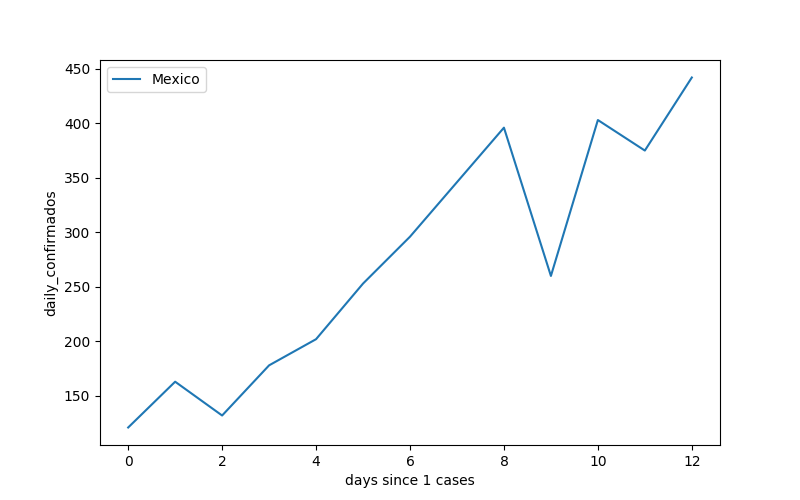
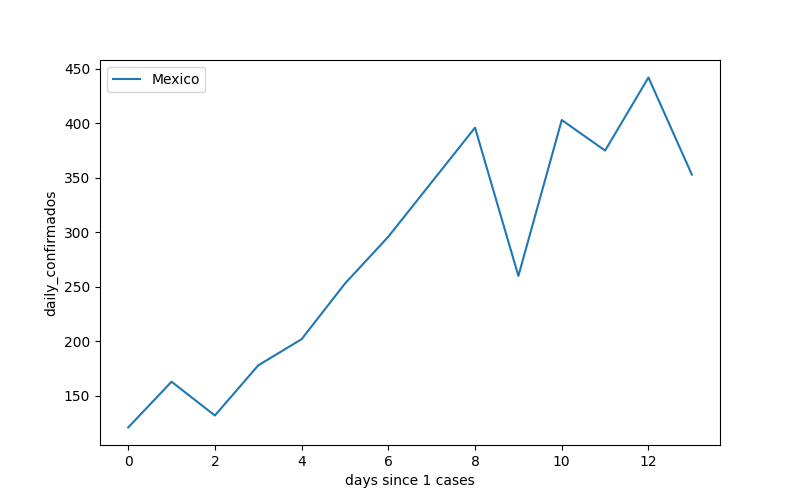
Auto generate graphs at 2020-04-13_18:07:59

diff --git a/summary.md b/summary.md
@@ -1,0 +1,142 @@
+# Datos sobre COVID-19 en México al 13-04-2020
+
+## Resumen de Resultados al 13-04-2020
+
+- **Casos confirmados:** 5014, 353 más que el día anterior
+- **Fallecimientos:** 332, 36 más que el día anterior
+
+## Nacional
+
+### Confirmados
+
+#### Acumulados:
+
+| Date                |   Mexico |
+|:--------------------|---------:|
+| 2020-03-31 00:00:00 |     1215 |
+| 2020-04-01 00:00:00 |     1378 |
+| 2020-04-02 00:00:00 |     1510 |
+| 2020-04-03 00:00:00 |     1688 |
+| 2020-04-04 00:00:00 |     1890 |
+| 2020-04-05 00:00:00 |     2143 |
+| 2020-04-06 00:00:00 |     2439 |
+| 2020-04-07 00:00:00 |     2785 |
+| 2020-04-08 00:00:00 |     3181 |
+| 2020-04-09 00:00:00 |     3441 |
+| 2020-04-10 00:00:00 |     3844 |
+| 2020-04-11 00:00:00 |     4219 |
+| 2020-04-12 00:00:00 |     4661 |
+| 2020-04-13 00:00:00 |     5014 |
+
+![img](img/mex_confirmados_ac.png)
+
+#### Diarios:
+
+| Date                |   Mexico |
+|:--------------------|---------:|
+| 2020-03-31 00:00:00 |      121 |
+| 2020-04-01 00:00:00 |      163 |
+| 2020-04-02 00:00:00 |      132 |
+| 2020-04-03 00:00:00 |      178 |
+| 2020-04-04 00:00:00 |      202 |
+| 2020-04-05 00:00:00 |      253 |
+| 2020-04-06 00:00:00 |      296 |
+| 2020-04-07 00:00:00 |      346 |
+| 2020-04-08 00:00:00 |      396 |
+| 2020-04-09 00:00:00 |      260 |
+| 2020-04-10 00:00:00 |      403 |
+| 2020-04-11 00:00:00 |      375 |
+| 2020-04-12 00:00:00 |      442 |
+| 2020-04-13 00:00:00 |      353 |
+
+![img](img/mex_confirmados_dia.png)
+
+### Fallecimientos
+
+#### Acumulados:
+
+| Date                |   Mexico |
+|:--------------------|---------:|
+| 2020-03-31 00:00:00 |       29 |
+| 2020-04-01 00:00:00 |       37 |
+| 2020-04-02 00:00:00 |       50 |
+| 2020-04-03 00:00:00 |       60 |
+| 2020-04-04 00:00:00 |       79 |
+| 2020-04-05 00:00:00 |       94 |
+| 2020-04-06 00:00:00 |      125 |
+| 2020-04-07 00:00:00 |      141 |
+| 2020-04-08 00:00:00 |      174 |
+| 2020-04-09 00:00:00 |      194 |
+| 2020-04-10 00:00:00 |      233 |
+| 2020-04-11 00:00:00 |      273 |
+| 2020-04-12 00:00:00 |      296 |
+| 2020-04-13 00:00:00 |      332 |
+
+![img](img/mex_muertos_ac.png)
+
+#### Diarios:
+
+| Date                |   Mexico |
+|:--------------------|---------:|
+| 2020-03-31 00:00:00 |        1 |
+| 2020-04-01 00:00:00 |        8 |
+| 2020-04-02 00:00:00 |       13 |
+| 2020-04-03 00:00:00 |       10 |
+| 2020-04-04 00:00:00 |       19 |
+| 2020-04-05 00:00:00 |       15 |
+| 2020-04-06 00:00:00 |       31 |
+| 2020-04-07 00:00:00 |       16 |
+| 2020-04-08 00:00:00 |       33 |
+| 2020-04-09 00:00:00 |       20 |
+| 2020-04-10 00:00:00 |       39 |
+| 2020-04-11 00:00:00 |       40 |
+| 2020-04-12 00:00:00 |       23 |
+| 2020-04-13 00:00:00 |       36 |
+
+![img](img/mex_muertos_dia.png)
+
+### Pruebas realizadas
+
+#### Acumuladas:
+
+| Date                |   Mexico |
+|:--------------------|---------:|
+| 2020-03-31 00:00:00 |    11008 |
+| 2020-04-01 00:00:00 |    12278 |
+| 2020-04-02 00:00:00 |    13985 |
+| 2020-04-03 00:00:00 |    15686 |
+| 2020-04-04 00:00:00 |    17184 |
+| 2020-04-05 00:00:00 |    18034 |
+| 2020-04-06 00:00:00 |    20475 |
+| 2020-04-07 00:00:00 |    25410 |
+| 2020-04-08 00:00:00 |    29578 |
+| 2020-04-09 00:00:00 |    31496 |
+| 2020-04-10 00:00:00 |    33893 |
+| 2020-04-11 00:00:00 |    35479 |
+| 2020-04-12 00:00:00 |    35301 |
+| 2020-04-13 00:00:00 |    37395 |
+
+![img](img/mex_pruebas_ac.png)
+
+#### Diarios:
+
+| Date                |   Mexico |
+|:--------------------|---------:|
+| 2020-03-31 00:00:00 |     1527 |
+| 2020-04-01 00:00:00 |     1270 |
+| 2020-04-02 00:00:00 |     1707 |
+| 2020-04-03 00:00:00 |     1701 |
+| 2020-04-04 00:00:00 |     1498 |
+| 2020-04-05 00:00:00 |      850 |
+| 2020-04-06 00:00:00 |     2441 |
+| 2020-04-07 00:00:00 |     4935 |
+| 2020-04-08 00:00:00 |     4168 |
+| 2020-04-09 00:00:00 |     1918 |
+| 2020-04-10 00:00:00 |     2397 |
+| 2020-04-11 00:00:00 |     1586 |
+| 2020-04-12 00:00:00 |     -178 |
+| 2020-04-13 00:00:00 |     2094 |
+
+![img](img/mex_pruebas_dia.png)
+
+
